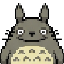
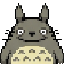
fix(sprites): remove white background border fringe from Totoro and Moon Walker sprites

diff --git a/src/graphics/ExternalAssetAdapter.ts b/src/graphics/ExternalAssetAdapter.ts
@@ -128,20 +128,38 @@ export class ExternalAssetAdapter {
 
     let workingKey = extKey;
 
+    if (spec.category === 'character' || spec.category === 'companion') {
+      const cleanedKey = `${id}-defringed`;
+      const cleanCanvas = scene.textures.exists(cleanedKey)
+        ? (scene.textures.get(cleanedKey) as any)
+        : scene.textures.createCanvas(cleanedKey, nativeW, nativeH);
+
+      if (cleanCanvas && cleanCanvas.getContext) {
+        const cCtx = cleanCanvas.getContext();
+        cCtx.imageSmoothingEnabled = false;
+        cCtx.clearRect(0, 0, nativeW, nativeH);
+        cCtx.drawImage(img, 0, 0, nativeW, nativeH);
+        this.defringeSpriteSheetCanvas(cCtx, nativeW, nativeH);
+        cleanCanvas.refresh();
+        workingKey = cleanedKey;
+      }
+    }
+
     if (needs2x) {
       const upscaledKey = `${id}-upscaled-2x`;
       const upW = nativeW * 2;
       const upH = nativeH * 2;
+      const srcImg = scene.textures.get(workingKey)?.getSourceImage() as HTMLImageElement | HTMLCanvasElement;
 
       let upCanvas = scene.textures.exists(upscaledKey)
         ? (scene.textures.get(upscaledKey) as any)
         : scene.textures.createCanvas(upscaledKey, upW, upH);
 
-      if (upCanvas) {
+      if (upCanvas && srcImg) {
         const ctx = upCanvas.getContext();
         ctx.imageSmoothingEnabled = false; // Nearest-neighbor sharp pixel scaling
         ctx.clearRect(0, 0, upW, upH);
-        ctx.drawImage(img, 0, 0, upW, upH);
+        ctx.drawImage(srcImg, 0, 0, upW, upH);
         upCanvas.refresh();
         workingKey = upscaledKey;
         console.log(`🔍 [ExternalAssetAdapter] Upscaled "${id}" 2x nearest-neighbor (${nativeW}x${nativeH} -> ${upW}x${upH}).`);
@@ -158,6 +176,97 @@ export class ExternalAssetAdapter {
     } else {
       // Register primary key alias so scene.add.sprite(x, y, id) resolves directly
       this.createTextureAlias(scene, id, workingKey);
+    }
+  }
+
+  /**
+   * Removes residual white/light-grey background-removal border pixels sitting outside
+   * dark character/companion outlines while preserving interior sclera/clothing pixels.
+   */
+  private static defringeSpriteSheetCanvas(
+    ctx: CanvasRenderingContext2D,
+    width: number,
+    height: number
+  ): void {
+    if (typeof ctx.getImageData !== 'function' || typeof ctx.putImageData !== 'function') return;
+    const imgData = ctx.getImageData(0, 0, width, height);
+    const data = imgData.data;
+    if (!data || data.length < width * height * 4) return;
+
+    const total = width * height;
+    const isCand = new Uint8Array(total);
+    const isDark = new Uint8Array(total);
+    const isTrans = new Uint8Array(total);
+
+    for (let i = 0; i < total; i++) {
+      const idx = i * 4;
+      const a = data[idx + 3];
+      if (a === 0) {
+        isTrans[i] = 1;
+        continue;
+      }
+      const r = data[idx];
+      const g = data[idx + 1];
+      const b = data[idx + 2];
+      const lum = (r + g + b) / 3;
+      const sat = Math.max(r, g, b) - Math.min(r, g, b);
+      if (lum < 80) {
+        isDark[i] = 1;
+      } else if (lum >= 115 && sat <= 25) {
+        isCand[i] = 1;
+      }
+    }
+
+    let modified = false;
+    for (let pass = 0; pass < 2; pass++) {
+      const toClear: number[] = [];
+      for (let y = 0; y < height; y++) {
+        for (let x = 0; x < width; x++) {
+          const i = y * width + x;
+          if (!isCand[i]) continue;
+
+          let touchesTrans = false;
+          let touchesDark = false;
+          let touchesInterior = false;
+
+          const neighbors = [
+            y > 0 ? (y - 1) * width + x : -1,
+            y < height - 1 ? (y + 1) * width + x : -1,
+            x > 0 ? y * width + (x - 1) : -1,
+            x < width - 1 ? y * width + (x + 1) : -1
+          ];
+
+          for (const ni of neighbors) {
+            if (ni === -1 || isTrans[ni]) {
+              touchesTrans = true;
+            } else if (isDark[ni]) {
+              touchesDark = true;
+            } else if (!isCand[ni]) {
+              touchesInterior = true;
+            }
+          }
+
+          if (touchesTrans && touchesDark && !touchesInterior) {
+            toClear.push(i);
+          }
+        }
+      }
+
+      if (toClear.length === 0) break;
+      modified = true;
+      for (const i of toClear) {
+        isCand[i] = 0;
+        isTrans[i] = 1;
+        const idx = i * 4;
+        data[idx] = 0;
+        data[idx + 1] = 0;
+        data[idx + 2] = 0;
+        data[idx + 3] = 0;
+      }
+    }
+
+    if (modified) {
+      ctx.putImageData(imgData, 0, 0);
     }
   }
 
